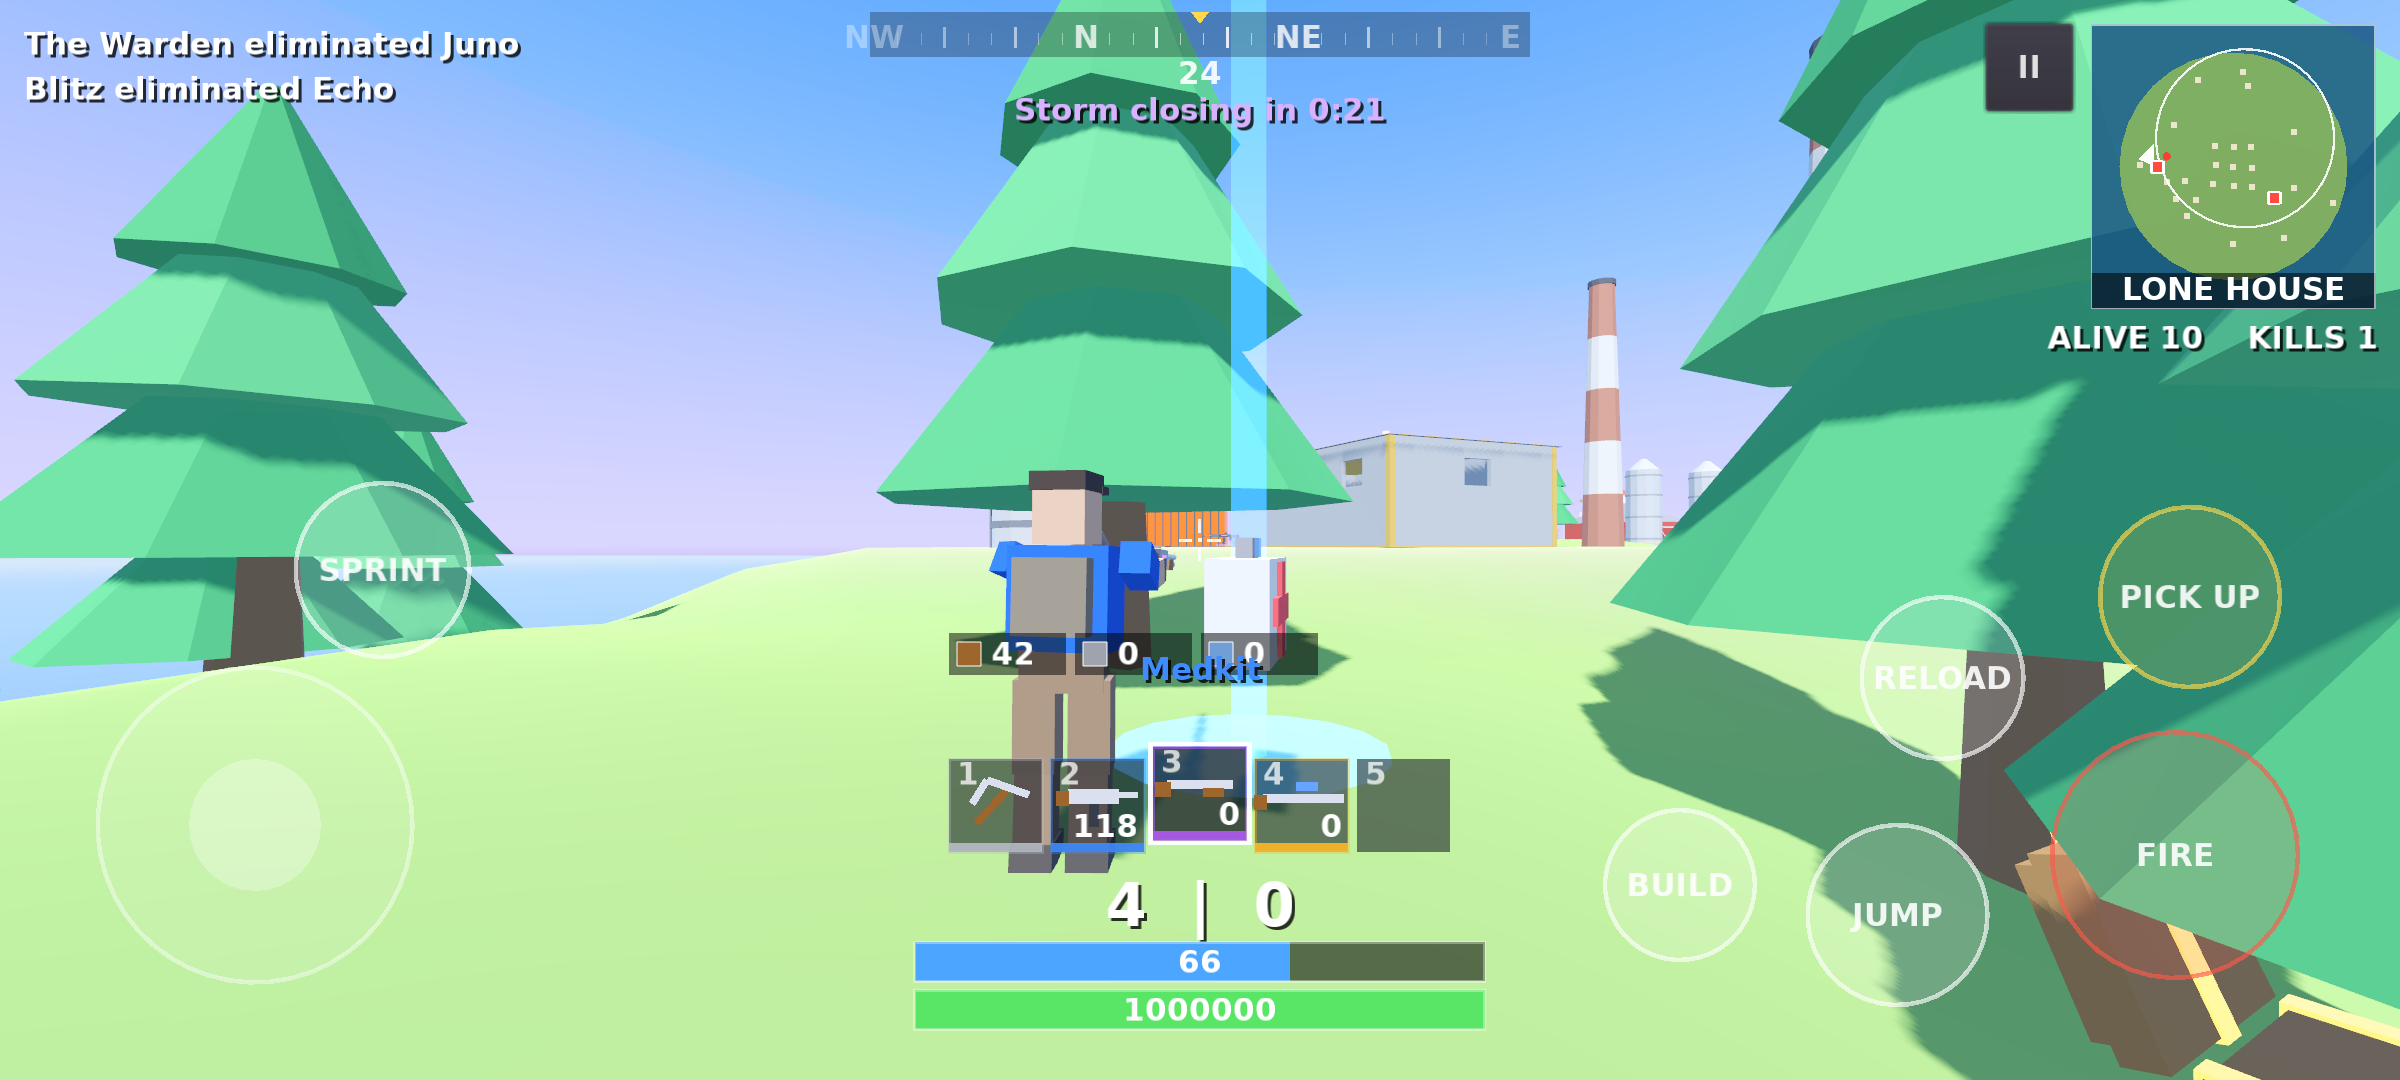
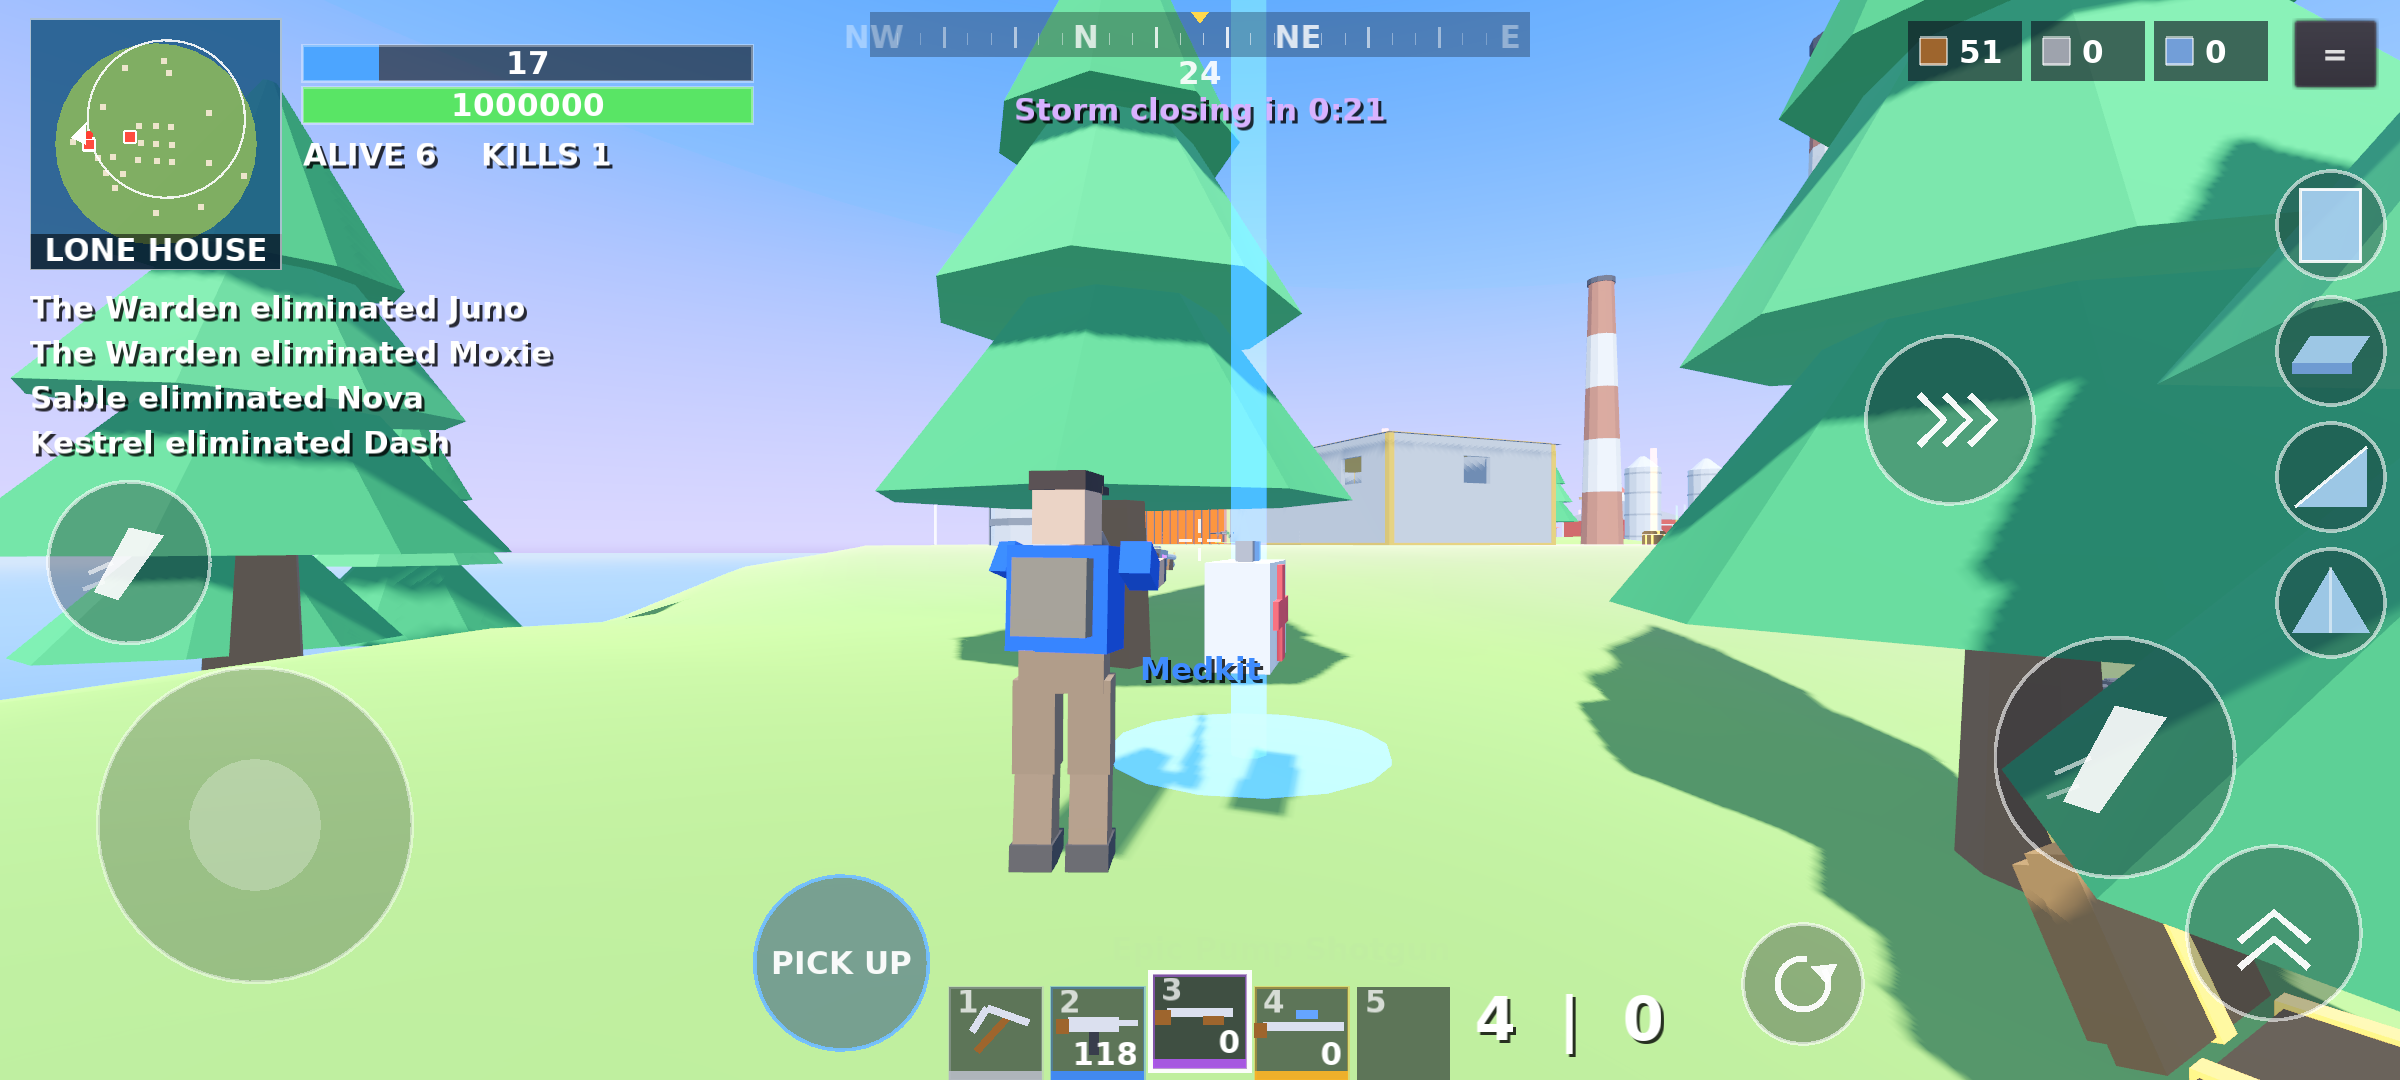
Phone HUD redesign: top-left minimap and bars, materials top-right, build-piece column, second fire button, ammo/reload beside hotbar
Touch mode now uses its own layout; the PC HUD is unchanged. Adds Materials widget,
Builder.set_material, touch tests for piece/material buttons, and fixes tools/run_tests.sh
(it was missing --no-bus --skip-menu).

Claude-Session: https://claude.ai/code/session_01BQG85pk7vz8LCnTeCbPega

diff --git a/README.md b/README.md
@@ -37,15 +37,19 @@ storm closes in. Last one standing wins.
 | | PC | Gamepad | Android |
 |---|---|---|---|
 | Move / look | WASD / mouse | sticks | floating joystick / drag right side |
-| Fire (auto) | left mouse | R2 | FIRE (drag on it to aim) |
+| Fire (auto) | left mouse | R2 | big FIRE button right, or the second FIRE above the joystick (drag on either to aim) |
 | Jump, drop from bus, glider, handbrake | Space | A | JUMP |
 | Sprint | Shift | L3 | SPRINT toggle / push stick fully |
-| Reload / horn | R | X | RELOAD |
+| Reload / horn | R | X | reload button beside the ammo readout |
 | Pick up, open, enter / exit vehicle | E | Y | PICK UP / EXIT (appears when relevant) |
 | Hotbar | 1-5 / wheel | L1 / R1 | tap the slots |
-| Build mode | Q (then 1-4 piece, wheel material) | | BUILD |
+| Build mode | Q (then 1-4 piece, wheel material) | | the four piece buttons down the right edge (tap again to leave); tap a materials box to pick wood / stone / metal |
 | Map | M | | tap the minimap |
 | Pause | Esc | | II button / Back |
+
+The phone HUD is its own layout (minimap, shield / health bars and kill feed top-left, materials and menu
+top-right, hotbar bottom-centre with ammo and reload beside it, fire / jump / sprint on the right); the PC HUD
+is unchanged. See `HUD._layout()` and `scripts/ui/TouchControls.gd`.
 
 All input goes through `scripts/Controls.gd`: keyboard, gamepad and touch controls produce the same
 `InputMap` actions, so gameplay code is identical on every platform.
